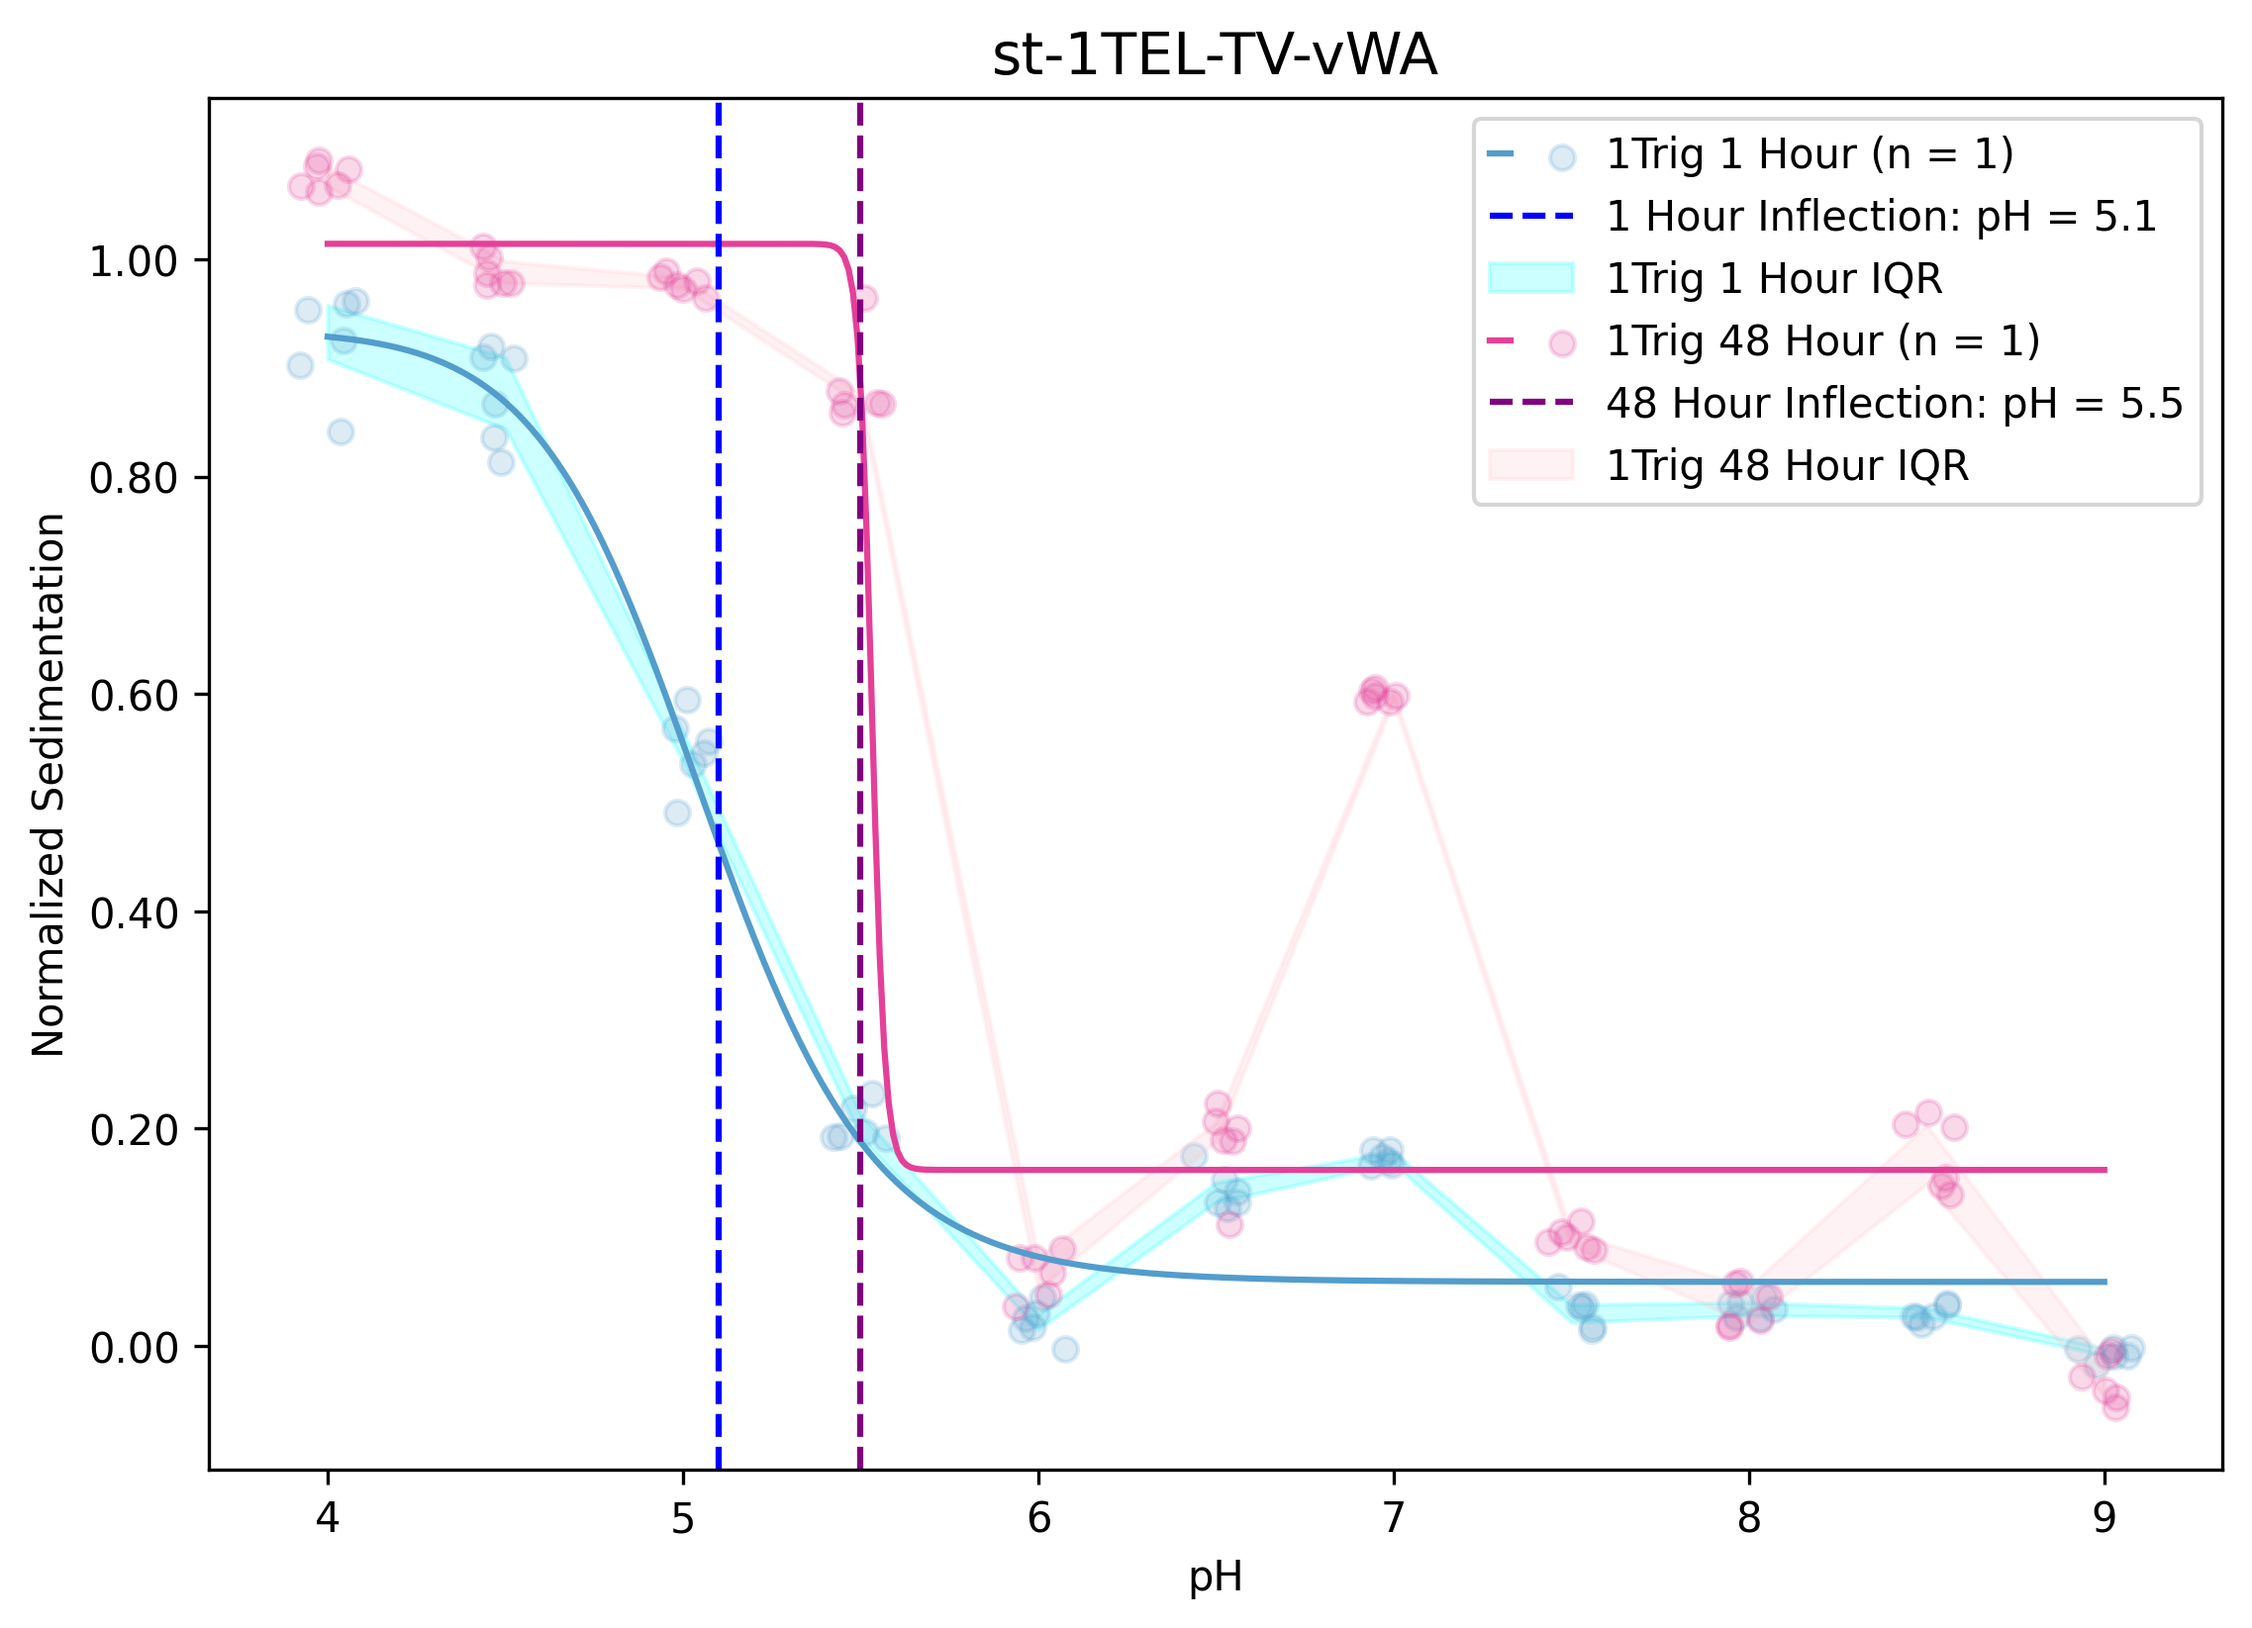
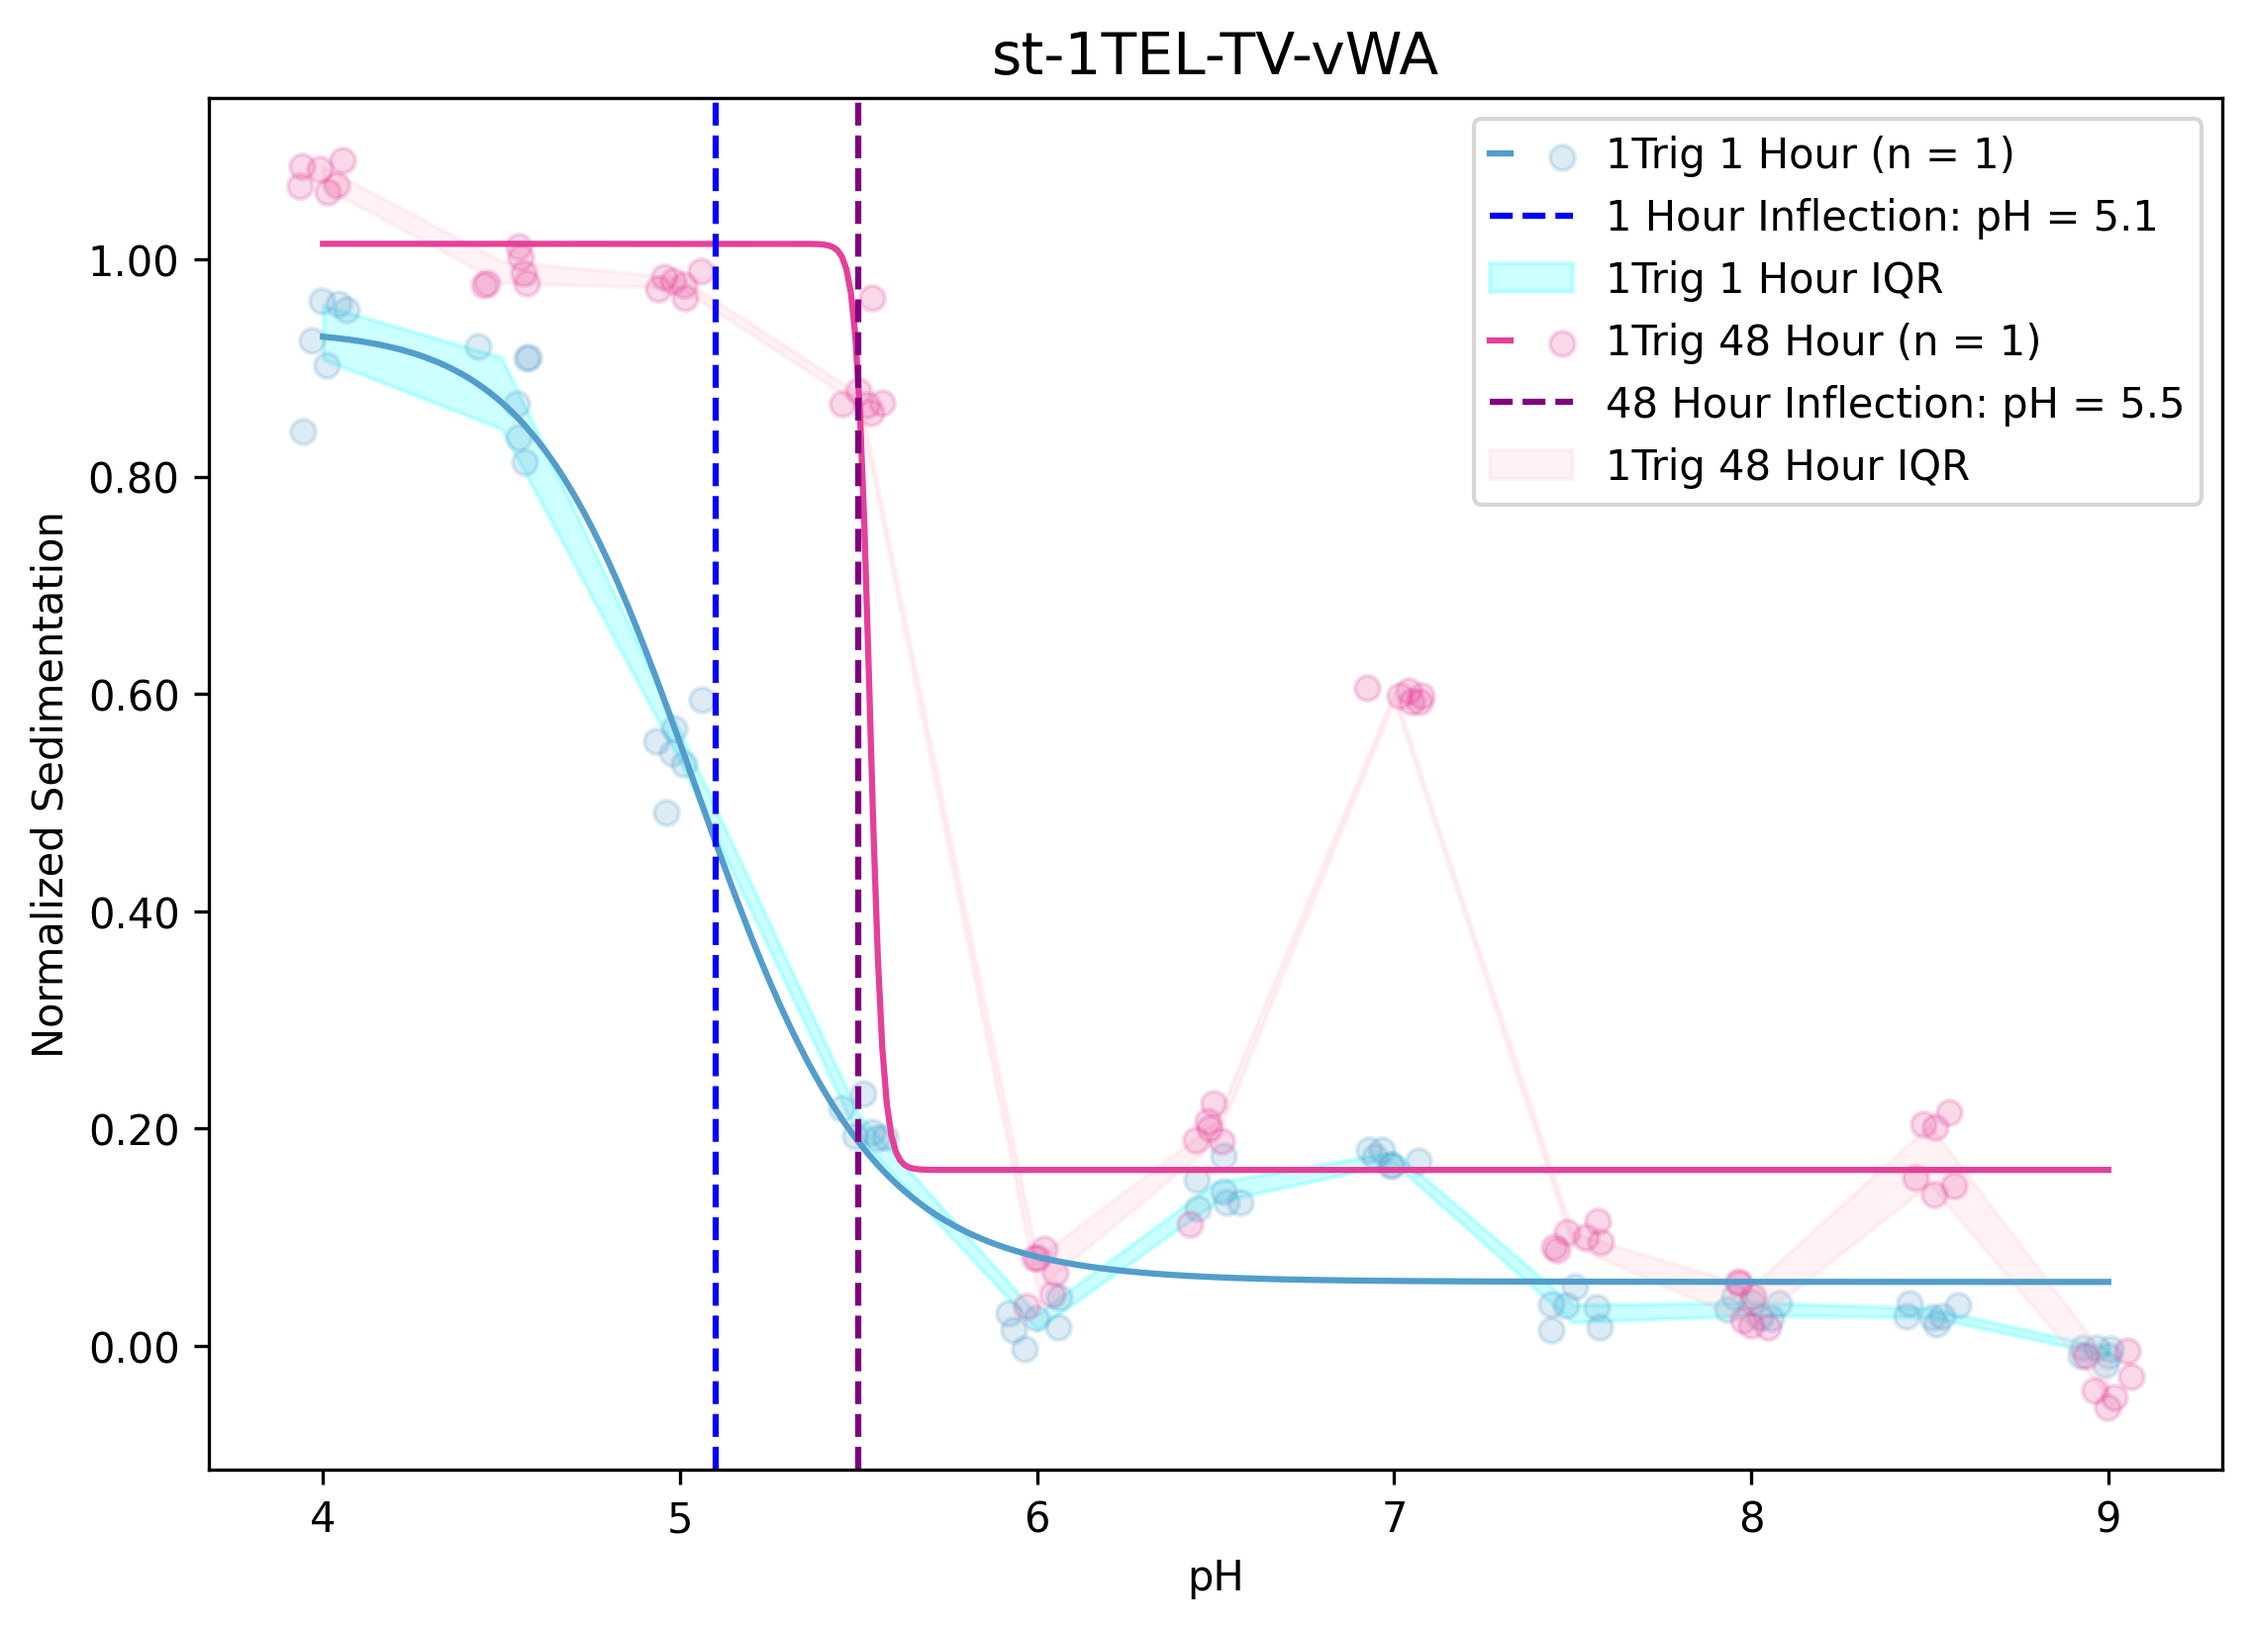
Updated behavior coloration

diff --git a/process.py b/process.py
@@ -173,6 +173,13 @@ def behavior_label_from_behavior_id(behavior_id):
         return "Behavior 2"
     return behavior_id
 
+# This helper function assigns colors to behavior-specific IQR bands.
+def get_behavior_iqr_colors(behavior_ids):
+    return {
+        behavior_id: "blue" if behavior_label_from_behavior_id(behavior_id) == "Behavior 2" else "cyan"
+        for behavior_id in behavior_ids
+    }
+
 # This helper function assigns two unique colors to the data points and 4PL curve for the plots that show the different behaviors. It uses the base color assigned
 # to behavior 1 as a reference for determining behavior 2's color.
 def get_behavior_colors(base_color, behavior_ids):
@@ -585,6 +592,7 @@ def statisticize(proteins_and_tests:list,plot_singly=False,plot=False,tailored=F
             if is_special_behavior_plot:
                 behavior_ids_present = sorted([bid for bid in behavior_groups.keys() if bid != ""])
                 behavior_colors = get_behavior_colors(color_map[construct_key], behavior_ids_present)
+                behavior_iqr_colors = get_behavior_iqr_colors(behavior_ids_present)
 
             try:
                 if is_special_behavior_plot:
@@ -608,7 +616,7 @@ def statisticize(proteins_and_tests:list,plot_singly=False,plot=False,tailored=F
                             continue
                         curve_handle_list = plt.plot(pH_linspace,pH_to_absorbance_model_4pl(pH_linspace, *best_fit_parameters),color=behavior_colors[behavior_id],linestyle="-")
                         line_handle = curve_handle_list[0]
-                        iqr_handle = plt.fill_between(group_pH,group_iqr_lower,group_iqr_upper,color=behavior_colors[behavior_id],alpha=0.12)
+                        iqr_handle = plt.fill_between(group_pH,group_iqr_lower,group_iqr_upper,color=behavior_iqr_colors[behavior_id],alpha=0.12)
                         handles_and_labels[iqr_handle] = f"{behavior_label_from_behavior_id(behavior_id)} IQR"
                         legend_groups["group1_iqr"].append(iqr_handle)
                         inflection_handle = plt.axvline(inflection_value,color=behavior_colors[behavior_id],linestyle=":")
